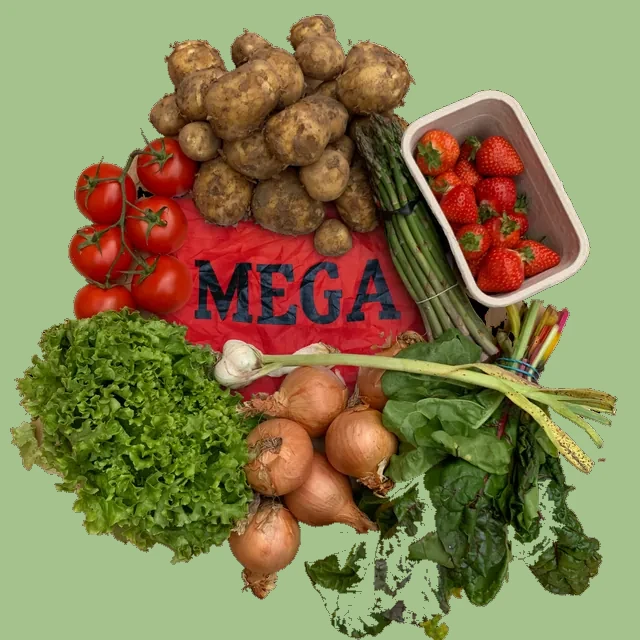
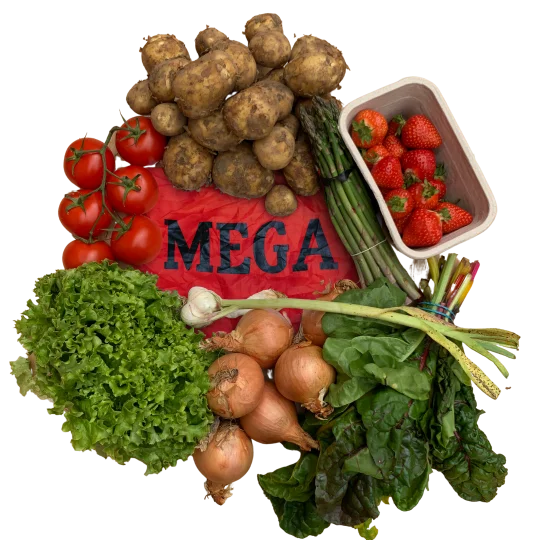
use transparent bg bag images

diff --git a/index.html b/index.html
@@ -74,7 +74,7 @@ h2.sec{font-size:clamp(1.75rem,3.6vw,2.4rem);margin:0 0 1.75rem}
 .bags .bag:nth-child(odd){transform:rotate(-.8deg)}
 .bags .bag:nth-child(even){transform:rotate(.8deg)}
 .bag h3{font-family:var(--display);font-weight:700;font-size:1.35rem}
-.bag .photo{margin:-.4rem -.4rem .9rem;border-radius:6px;overflow:hidden;background:#fff}
+.bag .photo{margin:-.4rem -.4rem .9rem;border-radius:6px;overflow:hidden;background:var(--sage)}
 .bag .photo img{width:100%;display:block}
 .fruit-toggle{display:inline-flex;align-items:center;gap:.6rem;font-family:var(--fun);font-size:1.05rem;color:var(--yellow);cursor:pointer;margin-bottom:1.5rem;user-select:none}
 .fruit-toggle input{width:1.2rem;height:1.2rem;accent-color:var(--yellow);cursor:pointer}
